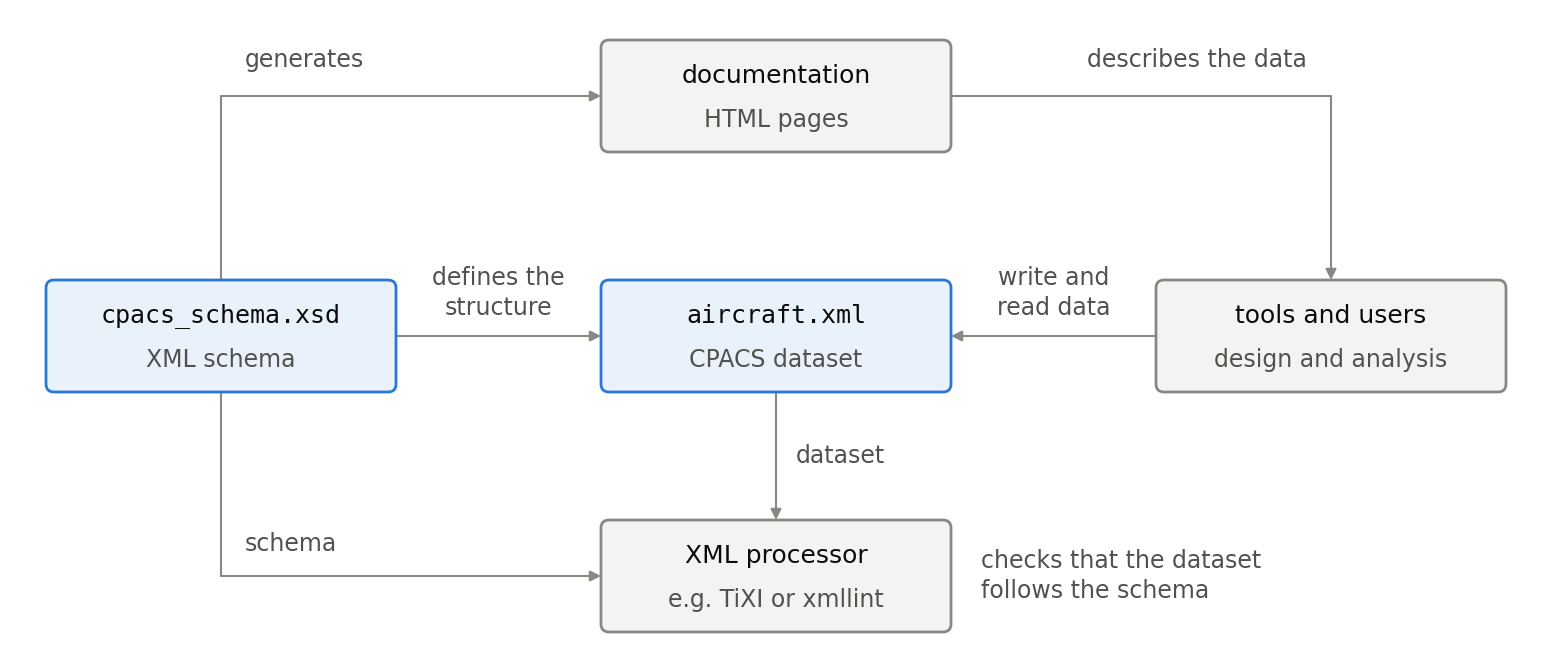
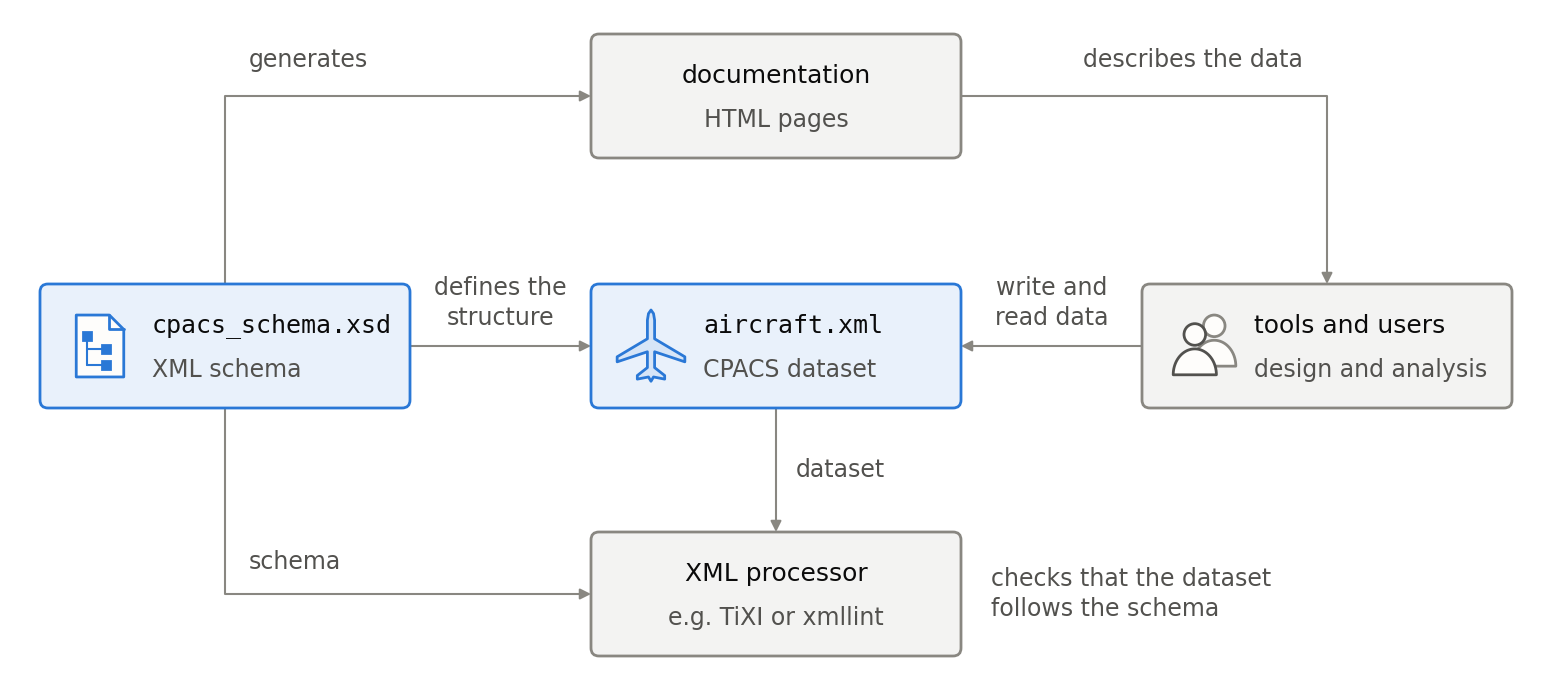
cpacsType 1: explain why CPACS, add a dataset skeleton, how to read the pages and where to go next; symbols in the basic principle figure

diff --git a/documentation/scripts/cpacsStructure.py b/documentation/scripts/cpacsStructure.py
@@ -32,7 +32,8 @@ import xml.etree.ElementTree as ET
 from pathlib import Path
 
 import matplotlib.pyplot as plt
-from matplotlib.patches import FancyBboxPatch
+import numpy as np
+from matplotlib.patches import Circle, FancyBboxPatch, Polygon
 
 from figure_style import COLORS, FONT_SIZE, FULL_WIDTH, LINE, figure_style, save_figure
 
@@ -103,29 +104,94 @@ def flow_arrow(ax, points, text=None, text_at=None, ha="center", va="center"):
         ax.text(*text_at, text, ha=ha, va=va, fontsize=NOTE, color=INK2, linespacing=1.3, zorder=3)
 
 
+# Symbols of the boxes in the middle row, drawn as line glyphs in a square of side 1 centred at the origin.
+# Right half of an airliner in top view, nose up: fuselage, swept wing, horizontal tail.
+AIRLINER_HALF = [(0.0, 0.5), (0.035, 0.45), (0.05, 0.36), (0.05, 0.1), (0.47, -0.15), (0.47, -0.22), (0.05, -0.08),
+                 (0.05, -0.3), (0.19, -0.41), (0.19, -0.46), (0.035, -0.43), (0.0, -0.49)]
+
+
+def symbol_schema(ax, center, size, color):
+    """A sheet with a folded corner, carrying a small tree: the schema as a hierarchy."""
+    cx, cy = center
+    w, h, fold = 0.66 * size, 0.86 * size, 0.2 * size
+    x0, y0 = cx - w / 2, cy - h / 2
+    outline = [(x0, y0), (x0 + w, y0), (x0 + w, y0 + h - fold), (x0 + w - fold, y0 + h), (x0, y0 + h)]
+    ax.add_patch(Polygon(outline, closed=True, lw=LINE["secondary"], ec=color, fc=PLATE, joinstyle="round",
+                         zorder=4))
+    ax.plot([x0 + w - fold, x0 + w - fold, x0 + w], [y0 + h, y0 + h - fold, y0 + h - fold], color=color,
+            lw=LINE["secondary"], solid_joinstyle="round", zorder=4)
+    # tree: a root and two children, connected by an elbow
+    root = (x0 + 0.22 * w, y0 + 0.66 * h)
+    children = [(x0 + 0.62 * w, y0 + 0.45 * h), (x0 + 0.62 * w, y0 + 0.2 * h)]
+    ax.plot([root[0], root[0]], [root[1], children[-1][1]], color=color, lw=LINE["reference"], zorder=4)
+    for child in children:
+        ax.plot([root[0], child[0]], [child[1], child[1]], color=color, lw=LINE["reference"], zorder=4)
+    for node in [root, *children]:
+        ax.plot(*node, ls="none", marker="s", ms=2.6, mfc=color, mec=color, zorder=5)
+
+
+def symbol_aircraft(ax, center, size, color):
+    """An airliner in top view, nose up, drawn like the components in the other figures."""
+    half = np.array(AIRLINER_HALF)
+    outline = np.vstack([half, (half * [-1.0, 1.0])[::-1]]) * size + np.asarray(center)
+    ax.add_patch(Polygon(outline, closed=True, lw=LINE["secondary"], ec=color, fc=(color, 0.10),
+                         joinstyle="round", zorder=4))
+
+
+def symbol_users(ax, center, size, color, back_color):
+    """Two busts, the one behind lighter: tools and their users."""
+    def bust(cx, cy, edge, zorder):
+        head = Circle((cx, cy + 0.2 * size), 0.15 * size, lw=LINE["secondary"], ec=edge, fc=PLATE, zorder=zorder)
+        t = np.linspace(0.0, np.pi, 40)
+        shoulders = np.column_stack([cx + 0.3 * size * np.cos(t), cy - 0.36 * size + 0.36 * size * np.sin(t)])
+        ax.add_patch(Polygon(shoulders, closed=True, lw=LINE["secondary"], ec=edge, fc=PLATE, joinstyle="round",
+                             zorder=zorder))
+        ax.add_patch(head)
+    cx, cy = center
+    bust(cx + 0.17 * size, cy + 0.08 * size, back_color, 4)
+    bust(cx - 0.1 * size, cy - 0.04 * size, color, 4.5)
+
+
 def figure_basic_principle():
-    """The schema, the dataset, the documentation, the tools and the XML processor, and how they relate."""
-    width, height = FULL_WIDTH, 3.15
-    w, h = 1.75, 0.56
-    cols = {"schema": 0.15, "dataset": 2.925, "tools": 5.7}
+    """The schema, the dataset, the documentation, the tools and the XML processor, and how they relate.
+
+    The middle row, which the figure is about, carries a symbol in each box; the documentation and the XML
+    processor are context and have none.
+    """
+    width, height = FULL_WIDTH, 3.25
+    w, h = 1.85, 0.62
+    cols = {"schema": 0.12, "dataset": 2.875, "tools": 5.63}
     mid = {key: x + w / 2 for key, x in cols.items()}
-    row_top, row_mid, row_bottom = 2.75, 1.55, 0.35
+    row_top, row_mid, row_bottom = 2.85, 1.6, 0.36
+    symbol_size, symbol_inset, text_inset = 0.36, 0.3, 0.56
 
     nodes = {
-        "documentation": (mid["dataset"] - w / 2, row_top, MUTED, "documentation", "HTML pages"),
-        "schema": (cols["schema"], row_mid, COLORS["series1"], "cpacs_schema.xsd", "XML schema"),
-        "dataset": (cols["dataset"], row_mid, COLORS["series1"], "aircraft.xml", "CPACS dataset"),
-        "tools": (cols["tools"], row_mid, MUTED, "tools and users", "design and analysis"),
-        "processor": (mid["dataset"] - w / 2, row_bottom, MUTED, "XML processor", "e.g. TiXI or xmllint"),
+        "documentation": (mid["dataset"] - w / 2, row_top, MUTED, "documentation", "HTML pages", None),
+        "schema": (cols["schema"], row_mid, COLORS["series1"], "cpacs_schema.xsd", "XML schema", "schema"),
+        "dataset": (cols["dataset"], row_mid, COLORS["series1"], "aircraft.xml", "CPACS dataset", "aircraft"),
+        "tools": (cols["tools"], row_mid, MUTED, "tools and users", "design and analysis", "users"),
+        "processor": (mid["dataset"] - w / 2, row_bottom, MUTED, "XML processor", "e.g. TiXI or xmllint", None),
     }
     with figure_style():
         fig = plt.figure(figsize=(width, height))
         ax = fig.add_axes((0.0, 0.0, 1.0, 1.0))
-        for x, y, color, title, note in nodes.values():
+        for x, y, color, title, note, symbol in nodes.values():
             box(ax, x, y, w, h, color)
-            ax.text(x + w / 2, y + 0.1, title, ha="center", va="center", fontsize=FONT_SIZE["base"], color=INK,
-                    family=MONO if title.endswith((".xsd", ".xml")) else None, zorder=3)
-            ax.text(x + w / 2, y - 0.12, note, ha="center", va="center", fontsize=NOTE, color=INK2, zorder=3)
+            family = MONO if title.endswith((".xsd", ".xml")) else None
+            if symbol is None:
+                text_x, ha = x + w / 2, "center"
+            else:
+                text_x, ha = x + text_inset, "left"
+                at = (x + symbol_inset, y)
+                if symbol == "schema":
+                    symbol_schema(ax, at, symbol_size, color)
+                elif symbol == "aircraft":
+                    symbol_aircraft(ax, at, symbol_size, color)
+                else:
+                    symbol_users(ax, at, symbol_size, INK2, MUTED)
+            ax.text(text_x, y + 0.1, title, ha=ha, va="center", fontsize=FONT_SIZE["base"], color=INK,
+                    family=family, zorder=3)
+            ax.text(text_x, y - 0.12, note, ha=ha, va="center", fontsize=NOTE, color=INK2, zorder=3)
 
         left, right = mid["schema"], mid["tools"]
         # schema -> documentation and documentation -> tools along the top row
